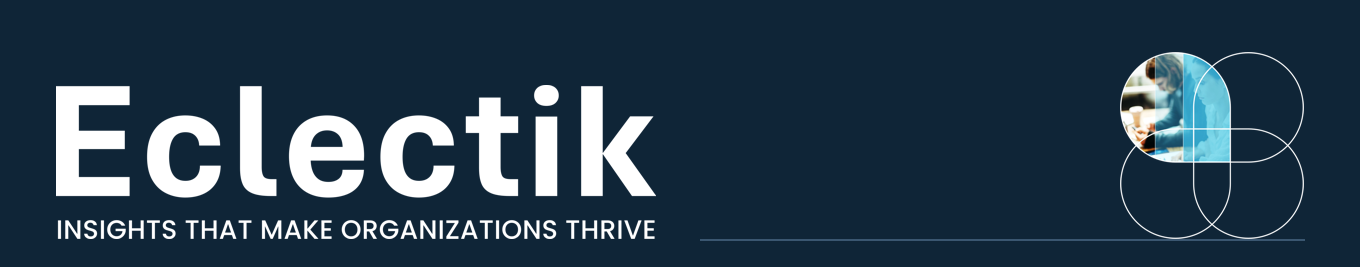
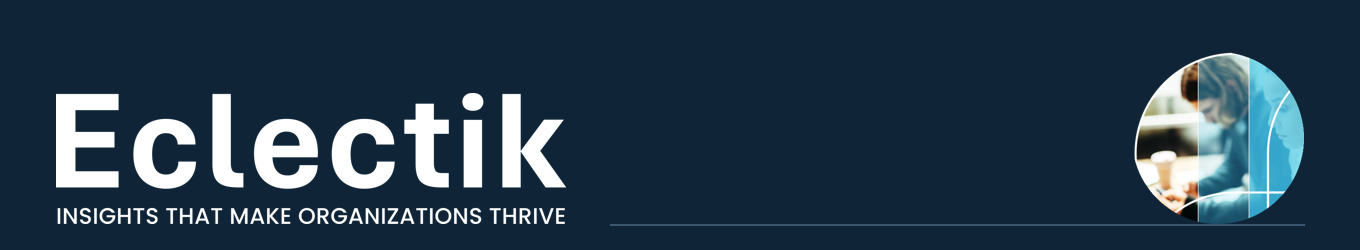
feat(content-calendar): handtekening-kop finetuning (v1.79.7)
Wordmark 15% kleiner, lijn tegen de onderkant van de tagline (E van THRIVE),
en rechts alleen de linkerbubbel (ronde foto-bubbel) die op de lijn ligt.

diff --git a/src/bd/changelog.js b/src/bd/changelog.js
@@ -19,9 +19,30 @@
 //   • Return to latest:       git checkout main
 // ─────────────────────────────────────────────────────────────────────────
 
-export const CURRENT_VERSION = '1.79.6';
+export const CURRENT_VERSION = '1.79.7';
 
 export const CHANGELOG = [
+  {
+    version: '1.79.7',
+    date: '2026-08-18T20:55:17Z',
+    author: 'Olivier Arnolds (via Claude)',
+    type: 'improvement',
+    title: 'E-mail-handtekening: wordmark kleiner, lijn tegen tagline, losse bubbel',
+    summary:
+      'Kop-afbeelding bijgewerkt: de wordmark is 15% kleiner, de lijn raakt de ' +
+      'onderkant van de tagline (de E van THRIVE), en rechts staat alleen de ' +
+      'linkerbubbel van het icoon (de ronde foto-bubbel) die op de lijn ligt.',
+    changes: [
+      'public/eclectik-email-header.png: nieuwe compositie (wordmark -15%, lijn op taglinehoogte, losse foto-bubbel op de lijn).',
+    ],
+    files: [
+      'public/eclectik-email-header.png',
+      'src/bd/changelog.js',
+      'VERSION',
+      'package.json',
+    ],
+    gitTag: 'v1.79.7',
+  },
   {
     version: '1.79.6',
     date: '2026-08-18T20:47:41Z',
